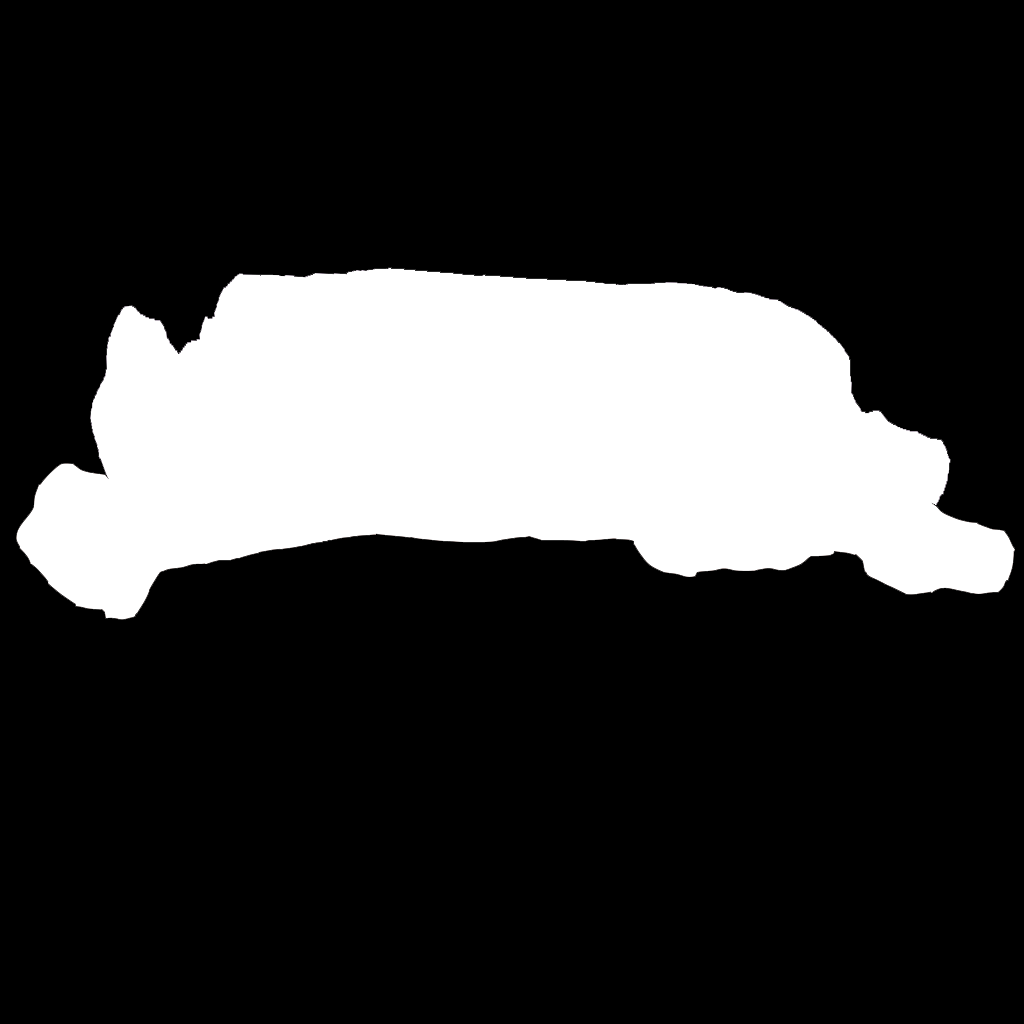
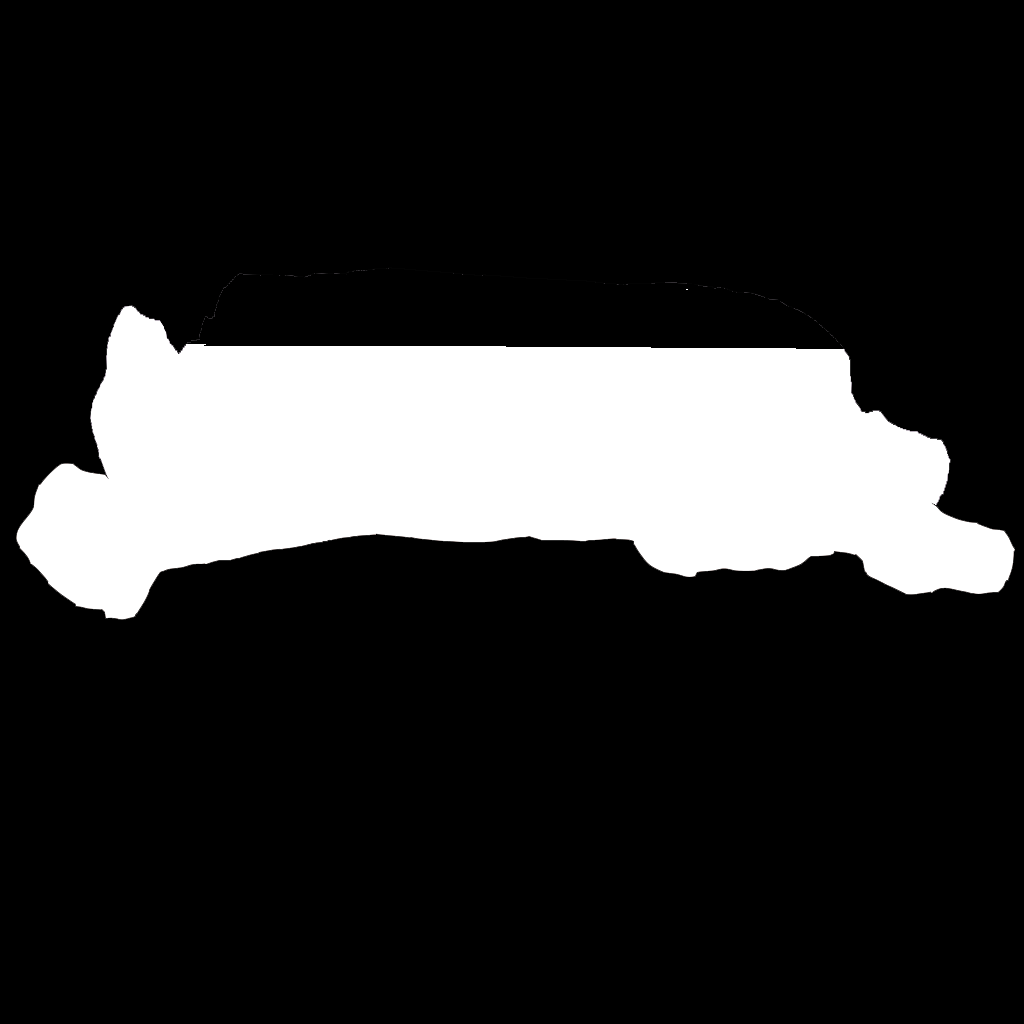
fixing 2 ingredient templating

Changed region(s): [[0.1875, 0.25, 0.8125, 0.3438]]

diff --git a/generate_texture_burger_2_ingredients.py b/generate_texture_burger_2_ingredients.py
@@ -40,6 +40,9 @@ def parse_args():
         '--mask_2', type=str, default='burger_templates/burger_mask.png', 
         help='The burger mask')
     parser.add_argument(
+        '--combined_mask', type=str, default='burger_templates/burger_mask.png', 
+        help='The burger mask')
+    parser.add_argument(
         '--output_dir', type=str, default='burger_outputs', 
         help='The directory for all the output results.')
     parser.add_argument(
@@ -99,6 +102,7 @@ img2img_pipe, img2img_proc = get_img2img_pipe(args.base_img2img_model)
 mask_1 = Image.open(args.mask_1).convert("RGB").resize((512,512))
 mask_2 = Image.open(args.mask_2).convert("RGB").resize((512,512))
 burger_template = Image.open(args.burger_template).convert("RGB").resize((512,512))
+combined_mask = Image.open(args.combined_mask).convert("RGB").resize((512,512))
 
 
 texture_prompt_1 = f"""food-texture, a 2D texture of {args.ingredient_1}+++, layered++, side view, 
@@ -156,7 +160,7 @@ for i in range(args.num_samples):
                     num_inference_steps=steps, generator=torch.Generator(device='cuda').manual_seed(random_seed),
                     guidance_scale = cfg).images[0]
     
-    # image = blend_image(image,input_img,mask,args.mask_blur)
+    image = blend_image(image,input_img,combined_mask,args.mask_blur)
 
     end_time = time.time()
     elapsed_time = end_time - start_time
@@ -164,6 +168,10 @@ for i in range(args.num_samples):
 
     out_img = cv2.cvtColor(np.uint8(image),cv2.COLOR_BGR2RGB)
     cv2.imwrite(f"{args.output_dir}/{i:4d}.jpg", out_img)
+
+    pipeline_img = np.hstack([texture_image_1,texture_image_2,input_img, image])
+    pipeline_img = cv2.cvtColor(np.uint8(pipeline_img),cv2.COLOR_BGR2RGB)
+    cv2.imwrite(f"pipeline_img.jpg", pipeline_img)
 
 if torch.cuda.is_available():
     torch.cuda.empty_cache()
